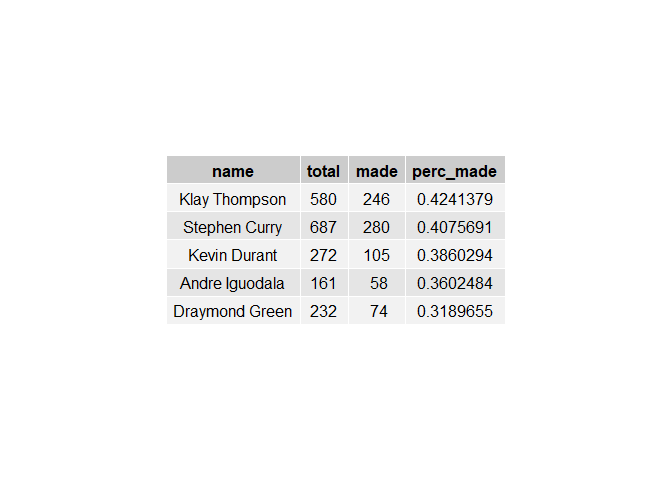
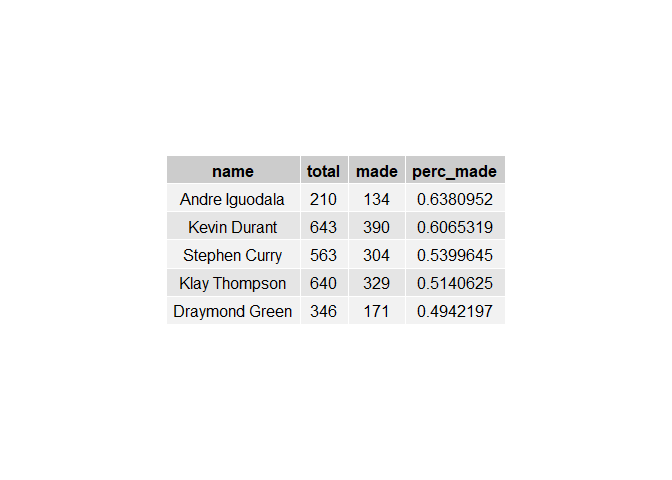
Fixed charts and added concluding image.

diff --git a/workout1/report/workout01-alicia-kim.md b/workout1/report/workout01-alicia-kim.md
@@ -6,9 +6,9 @@ March 5, 2019
 Introduction
 ------------
 
-Every fan probably knows the names and capabilities of the Golden State Warriors team, but a true fan dives even deeper into the numbers and stats of their performances.
+Every fan probably knows the names and capabilities of the Golden State Warriors team, but a true fan dives even deeper into the numbers and the stats of their performances.
 
-Below, we will take a close look at the shooting accuracies for a handful of the GSW team, factoring in the location they took the shot. This will give us a better look at the types of shots these GSW players are making and losing.
+Below, we take a close look at the shooting accuracies for a handful of the GSW team. This allows us to see which players have stronger shots in different locations on the court, and which of our members are stronger shooting members overall.
 
 The dataset we have access to is available [here](https://github.com/ucb-stat133/stat133-hws) and includes records for players Stephen Curry, Draymond Green, Kevin Durant, Klay Thompson, and Andre Iguodala, seen here from left to right:
 
@@ -43,22 +43,50 @@ all_shooting[5,] <- list("Kevin Durant", nrow(filter(shots_data, name == "Kevin 
 
 
 all_shooting <- mutate(all_shooting, perc_made = made/total) %>% arrange(desc(perc_made))
-
-
-table <- grid.table(all_shooting, rows=NULL)
 ```
 
-![](workout01-alicia-kim_files/figure-markdown_github/unnamed-chunk-2-1.png)
+And we generate our table below:
 
-Durant has the highest percentage and he's made quite a lot of shots. However, Thompson and Curry make considerably more shots, and their total percentages are relatively close to Durant's. Green's percentage is pretty low, and he hasn't made that many shots, either.
+**Accuracy for All Shots by Player**
 
-We can also take a look at two pointer shots. We're seeing a significant difference with the number of 2 pointers shot by these 5 players. Durant, Curry, and Thompson are shooting a lot more of these and getting high accuracies. Iguodala has shot the least, although he has the best accuracy. Green has also not shot that many relatively, and his accuracy is the lowest.
+``` r
+all_shooting
+```
 
-![](workout01-alicia-kim_files/figure-markdown_github/unnamed-chunk-3-1.png)
+                name total made perc_made
+    1   Kevin Durant   915  495 0.5409836
+    2 Andre Iguodala   371  192 0.5175202
+    3  Klay Thompson  1220  575 0.4713115
+    4  Stephen Curry  1250  584 0.4672000
+    5 Draymond Green   578  245 0.4238754
 
-We can finally take a look at 3 point shots. The table below shows us that the best 3 point shooters of these 5 GSW players are Thompson and Curry. They shoot the most of them and have the highest accuracy. The three others have accuracies in the 30's, and do not shoot them as much. Because 3 pointers are harder shots to make, we're seeing overall lower percentages than the 2 pointers.
+As we can see, Durant has the highest percentage and he's made quite a lot of shots. However, Thompson and Curry make considerably more shots, and their total percentages are relatively close to Durant's. Green's percentage is pretty low, and he hasn't made that many shots, either.
 
-![](workout01-alicia-kim_files/figure-markdown_github/unnamed-chunk-4-1.png)
+We can also take a look at two pointer shots.
+
+**Accuracy for 2 Point Shots by Player**
+
+                name total made perc_made
+    1 Andre Iguodala   210  134 0.6380952
+    2   Kevin Durant   643  390 0.6065319
+    3  Stephen Curry   563  304 0.5399645
+    4  Klay Thompson   640  329 0.5140625
+    5 Draymond Green   346  171 0.4942197
+
+We're seeing a significant difference with the number of 2 pointers shot by these 5 players. Durant, Curry, and Thompson are shooting a lot more of these and getting high accuracies. Iguodala has shot the least, although he has the best accuracy. Green has also not shot that many relatively, and his accuracy is the lowest.
+
+We can finally take a look at 3 point shots.
+
+**Accuracy for 3 Point Shots by Player**
+
+                name total made perc_made
+    1  Klay Thompson   580  246 0.4241379
+    2  Stephen Curry   687  280 0.4075691
+    3   Kevin Durant   272  105 0.3860294
+    4 Andre Iguodala   161   58 0.3602484
+    5 Draymond Green   232   74 0.3189655
+
+This table shows us that the best 3 point shooters of these 5 GSW players are Thompson and Curry. They shoot the most of them and have the highest accuracy. The three others have accuracies in the 30's, and do not shoot them as much. Because 3 pointers are harder shots to make, we're seeing overall lower percentages than the 2 pointers.
 
 Facetted Shot Charts
 --------------------
@@ -79,3 +107,5 @@ Iguodala does not shoot that much, but he has a pretty good track record with hi
 A great next step to dive further into our data would be to conduct a similar analysis on defensive moves, perhaps by looking at ball stealing or blocking on defense. This is motivated by the fact that we looked so critically at Draymond Green's poor shooting record, but he might be a really strong defensive players. Or, we could look at how our players are passing. Perhaps Green is responsible for setting up all the other players for their amazing shots.
 
 Clearly, there are a lot of advantages to diving into the numbers and conducting this analysis. Hopefully this report has given you something to geek out about with your fellow basketball fanatics!
+
+<img src="../images/cheer.jpg" width="80%" style="display: block; margin: auto;" />

diff --git a/workout1/data/data-dictionary.md b/workout1/data/data-dictionary.md
@@ -1,7 +1,9 @@
 *Attribute information:*
 
 Datasets: andre-iguodala.csv, draymond-green.csv, kevin-durant.csv, 
-klay-thompson.csv, stephencurry.csv
+klay-thompson.csv, stephencurry.csv.
+
+Description:  Data draws from the GSW 2016 season. Player name datasets include records for their individual attempted shots.  shot-data datset created by drawing together each players data.
 
 Given is the name and short description for each attribute in the player 
 datasets.
